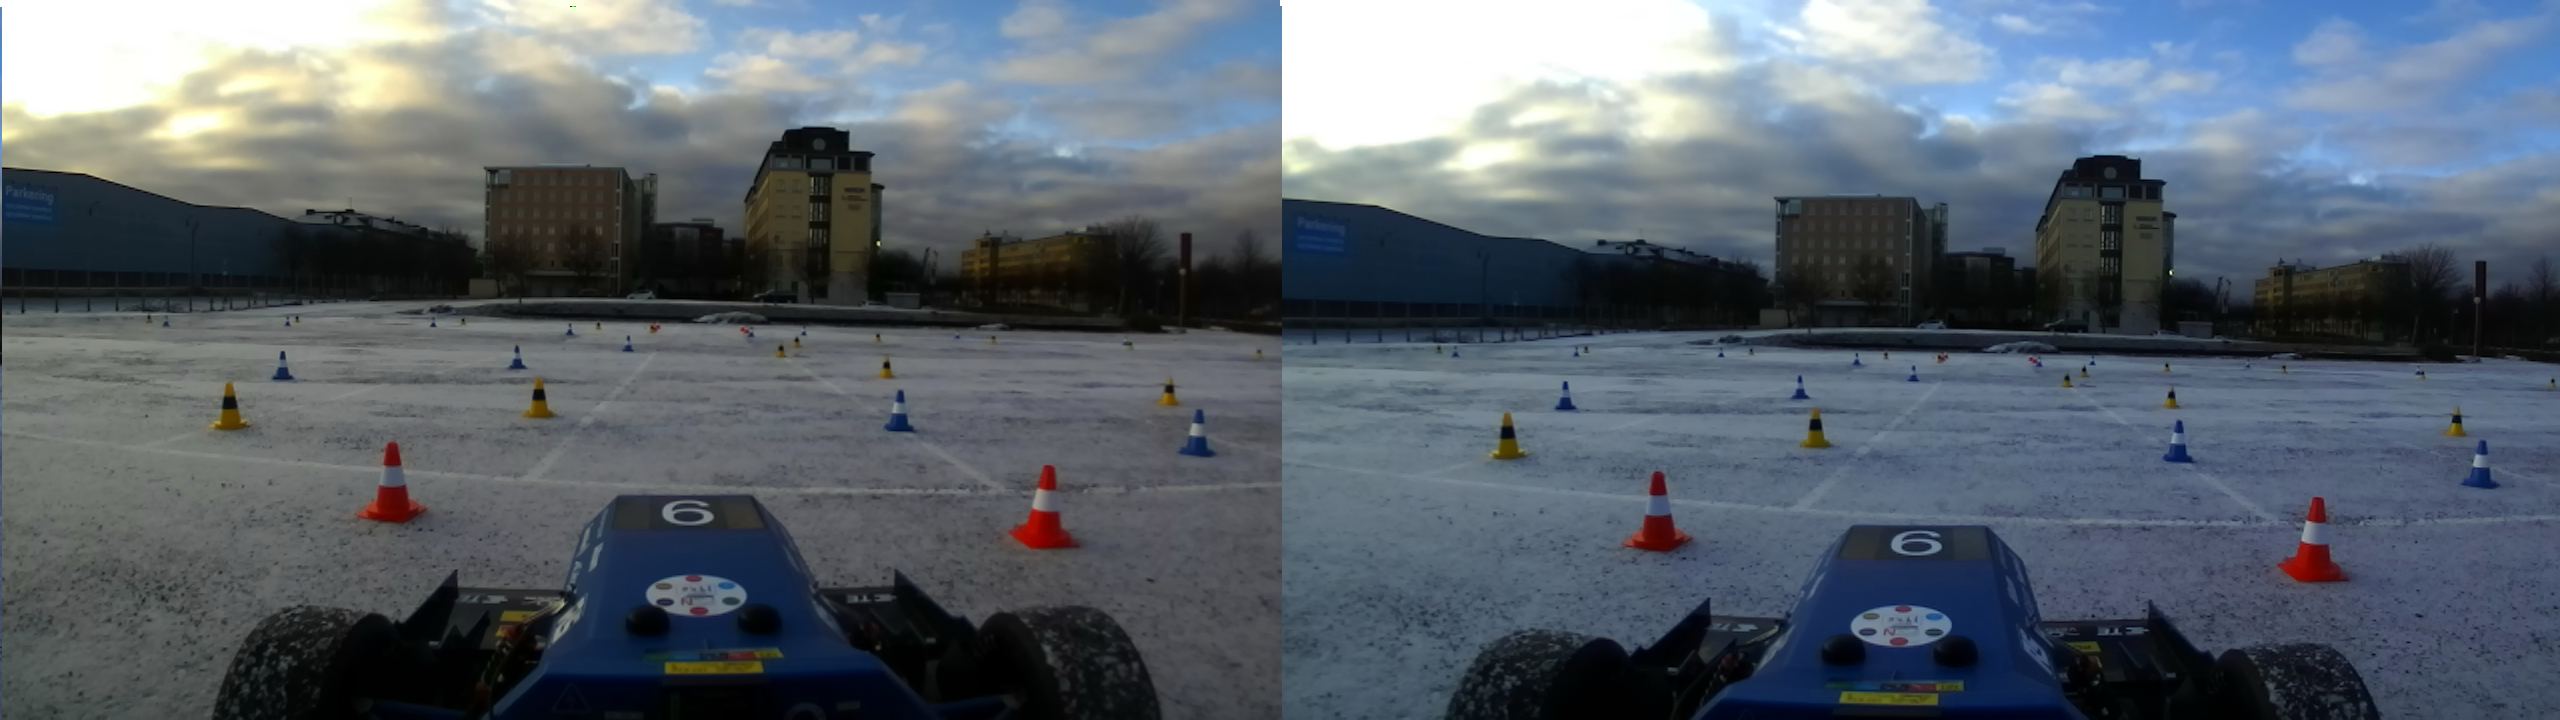
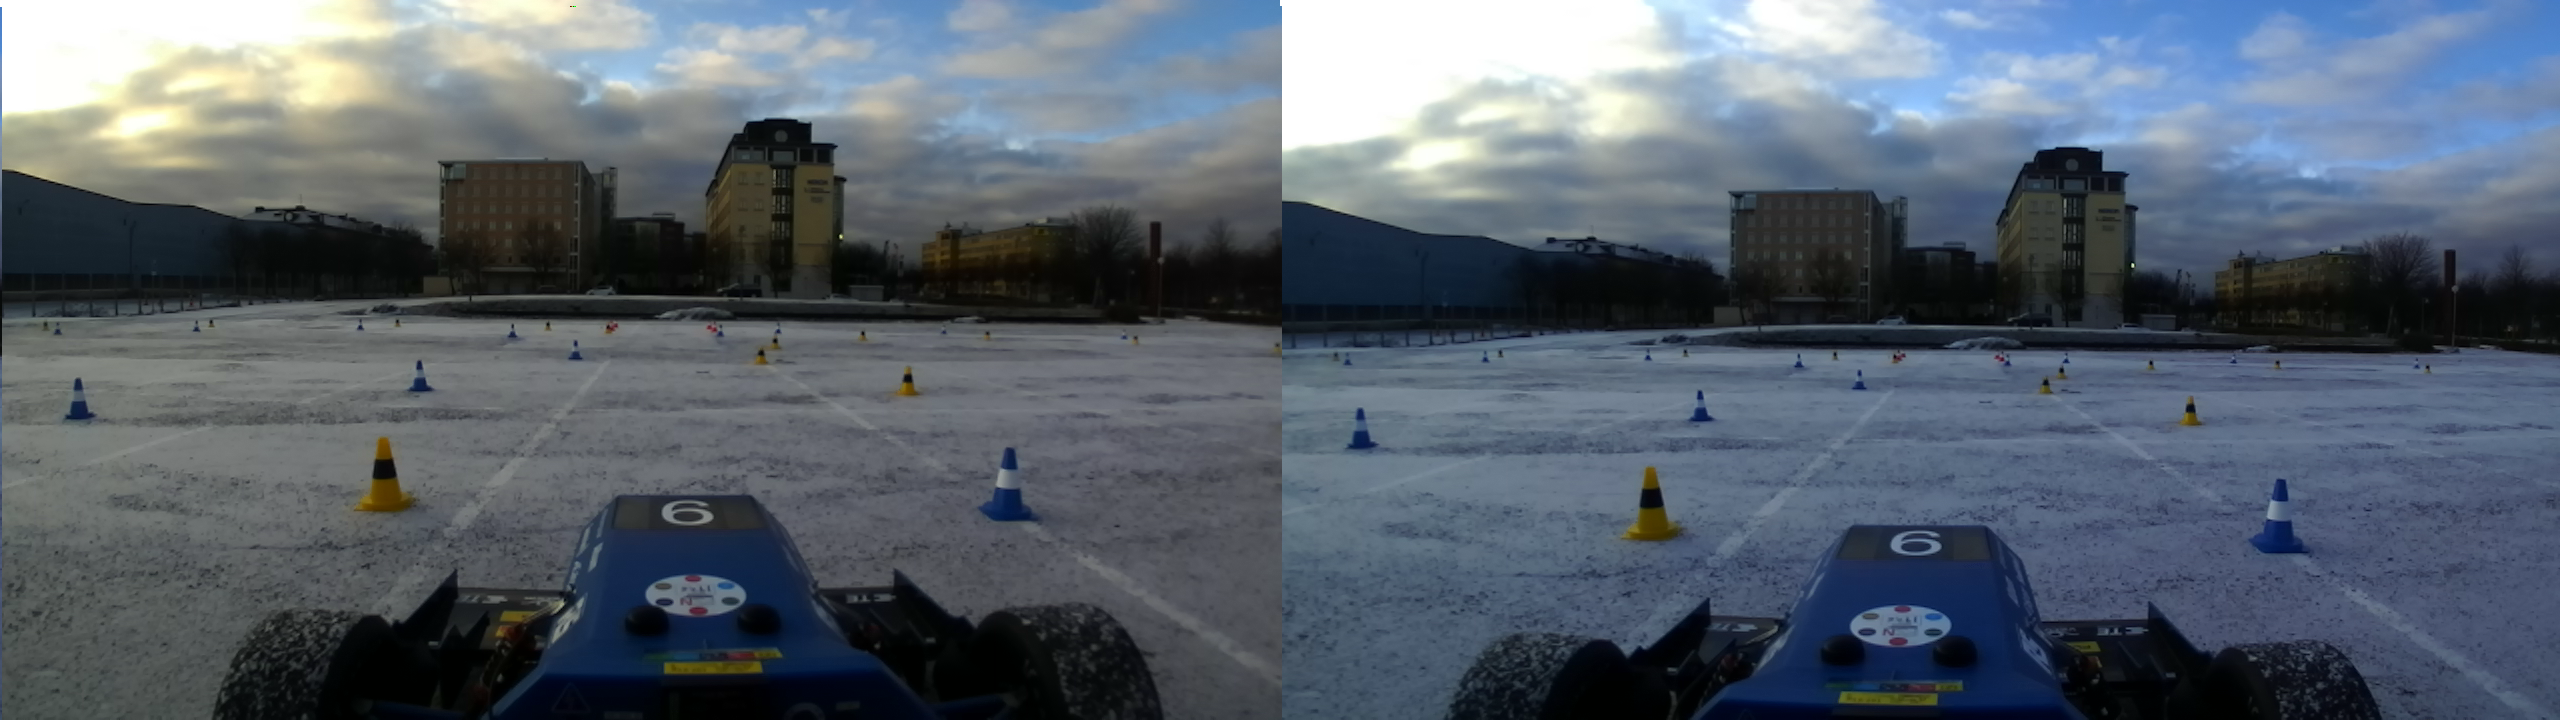
convert to hsv and normalization

diff --git a/code/logic-cfsd18/perception/detectcone/src/detectcone.cpp b/code/logic-cfsd18/perception/detectcone/src/detectcone.cpp
@@ -324,6 +324,7 @@ void DetectCone::reconstruction(cv::Mat img, cv::Mat &Q, cv::Mat &disp, cv::Mat 
   //cv::imwrite("2_right.png", imgR);
 
   blockMatching(disp, imgL, imgR);
+  
   // cv::namedWindow("disp", cv::WINDOW_NORMAL);
   // cv::imshow("disp", disp);
   // cv::waitKey(0);
@@ -354,15 +355,16 @@ float_t DetectCone::depth2resizeRate(double x, double y){
 
 
 void DetectCone::convertImage(cv::Mat img, int w, int h, tiny_dnn::vec_t &data){
-  cv::Mat resized;
+  cv::Mat resized, hsv[3];
   cv::resize(img, resized, cv::Size(w, h));
+  cv::cvtColor(resized, resized, CV_RGB2HSV);
+ 
   data.resize(w * h * 3);
-  for (int c = 0; c < 3; ++c) {
-    for (int y = 0; y < h; ++y) {
-      for (int x = 0; x < w; ++x) {
-       data[c * w * h + y * w + x] =
-         resized.at<cv::Vec3b>(y, x)[c] / 255.0;
-      }
+  for (size_t y = 0; y < h; ++y) {
+    for (size_t x = 0; x < w; ++x) {
+      data[y * w + x] = (resized.at<cv::Vec3b>(y, x)[0]-75) / 179.0;
+      data[1 * w * h + y * w + x] = (resized.at<cv::Vec3b>(y, x)[1]-46) / 255.0;
+      data[2 * w * h + y * w + x] = (resized.at<cv::Vec3b>(y, x)[2]-107) / 255.0;
     }
   }
 }
@@ -374,26 +376,15 @@ void DetectCone::slidingWindow(const std::string &dictionary) {
   using relu    = tiny_dnn::relu_layer;
   using softmax = tiny_dnn::softmax_layer;
 
-  const int n_fmaps  = 32;  // number of feature maps for upper layer
-  const int n_fmaps2 = 64;  // number of feature maps for lower layer
-  const int n_fc     = 64;  // number of hidden units in fc layer
   tiny_dnn::core::backend_t backend_type = tiny_dnn::core::default_engine();
 
-  m_nn << conv(32, 32, 5, 3, n_fmaps, tiny_dnn::padding::same, true, 1, 1,
-             backend_type)                      // C1
-     << pool(32, 32, n_fmaps, 2, backend_type)  // P2
-     << relu()                                  // activation
-     << conv(16, 16, 5, n_fmaps, n_fmaps, tiny_dnn::padding::same, true, 1, 1,
-             backend_type)                      // C3
-     << pool(16, 16, n_fmaps, 2, backend_type)  // P4
-     << relu()                                  // activation
-     << conv(8, 8, 5, n_fmaps, n_fmaps2, tiny_dnn::padding::same, true, 1, 1,
-             backend_type)                                // C5
-     << pool(8, 8, n_fmaps2, 2, backend_type)             // P6
-     << relu()                                            // activation
-     << fc(4 * 4 * n_fmaps2, n_fc, true, backend_type)    // FC7
-     << relu()                                            // activation
-     << fc(n_fc, 4, true, backend_type) << softmax(4);  // FC10
+  m_nn << conv(25, 25, 4, 3, 16, tiny_dnn::padding::valid, true, 1, 1, backend_type) << relu()                     
+     << pool(22, 22, 16, 2, backend_type)                               
+     << conv(11, 11, 4, 16, 32, tiny_dnn::padding::valid, true, 1, 1, backend_type) << relu()                     
+     << pool(8, 8, 32, 2, backend_type)
+     << conv(4, 4, 3, 32, 64, tiny_dnn::padding::valid, true, 1, 1, backend_type) << relu()                                                                        
+     << fc(2 * 2 * 64, 128, true, backend_type) << relu()    
+     << fc(128, 4, true, backend_type) << softmax(4);
 
   // load nets
   std::ifstream ifs(dictionary.c_str());
@@ -426,7 +417,7 @@ int DetectCone::backwardDetection(cv::Mat img, cv::Vec3f point3D){
   float_t ratio = depth2resizeRate(point3D[0], point3D[2]);
   int maxIndex = 1;
   if (ratio > 0) {
-    int length = ratio * 32;
+    int length = ratio * 25;
     int radius = (length-1)/2;
     // std::cout << "radius: " << radius << std::endl;
 
@@ -449,7 +440,7 @@ int DetectCone::backwardDetection(cv::Mat img, cv::Vec3f point3D){
     auto patchImg = rectified(roi);
 
     tiny_dnn::vec_t data;
-    convertImage(patchImg, 32, 32, data);
+    convertImage(patchImg, 25, 25, data);
     auto prob = m_nn.predict(data);
     float_t threshold = 0.1;
     // std::cout << prob[0] << " " << prob[1] << " " << prob[2] << " " << prob[3] << std::endl;
@@ -476,10 +467,10 @@ int DetectCone::backwardDetection(cv::Mat img, cv::Vec3f point3D){
         cv::circle(rectified, cv::Point (x,y), radius, cv::Scalar (0,0,0), CV_FILLED);
     }
        // cv::circle(disp, cv::Point (x,y), 3, 0, CV_FILLED);
-       cv::namedWindow("disp", cv::WINDOW_NORMAL);
-       // cv::setWindowProperty("result", CV_WND_PROP_FULLSCREEN, CV_WINDOW_FULLSCREEN);
-       cv::imshow("disp", rectified);
-       cv::waitKey(10);
+       // cv::namedWindow("disp", cv::WINDOW_NORMAL);
+       // // cv::setWindowProperty("result", CV_WND_PROP_FULLSCREEN, CV_WINDOW_FULLSCREEN);
+       // cv::imshow("disp", rectified);
+       // cv::waitKey(10);
        //cv::destroyAllWindows();
   }
   else{
@@ -663,8 +654,8 @@ void DetectCone::forwardDetection() {
       // if(coneRegion.size()>0){
       //   int medianIndex = medianVector(coneRegion);
 
-      cv::Vec3f point3D = XYZ.at<cv::Vec3f>(positionResize) * 2;
-      cv::Vec3f point3D2 = XYZ.at<cv::Vec3f>(coneRegionXY[medianIndex]) * 2;
+      cv::Vec3f point3D = XYZ.at<cv::Vec3f>(positionResize);
+      // cv::Vec3f point3D2 = XYZ.at<cv::Vec3f>(coneRegionXY[medianIndex]) * 2;
       // std::cout << point3D2 << " " << point3D << std::endl;
       if (point3D[2] > 0 && point3D[2] < 20000){
         if (label == 1){
@@ -689,9 +680,9 @@ void DetectCone::forwardDetection() {
     }
   }
 
-  cv::namedWindow("result", cv::WINDOW_NORMAL);
-  cv::imshow("result", rectified);
-  cv::waitKey(0);
+  // cv::namedWindow("result", cv::WINDOW_NORMAL);
+  // cv::imshow("result", rectified);
+  // cv::waitKey(0);
 
   // cv::Vec4d probSoftmax(4);
   // cv::Mat probMapSoftmax = cv::Mat::zeros(outputHeight, outputWidth, CV_64FC3);
@@ -821,6 +812,12 @@ void DetectCone::SendCollectedCones(Eigen::MatrixXd lidarCones)
 
 void DetectCone::SendMatchedContainer(Eigen::MatrixXd cones)
 {
+  opendlv::logic::perception::Object object;
+  object.setObjectId(cones.cols());
+  odcore::data::Container c1(object);
+  c1.setSenderStamp(m_senderStamp);
+  getConference().send(c1);
+
   for(int n = 0; n < cones.cols(); n++){
 
     opendlv::logic::sensation::Point conePoint;
